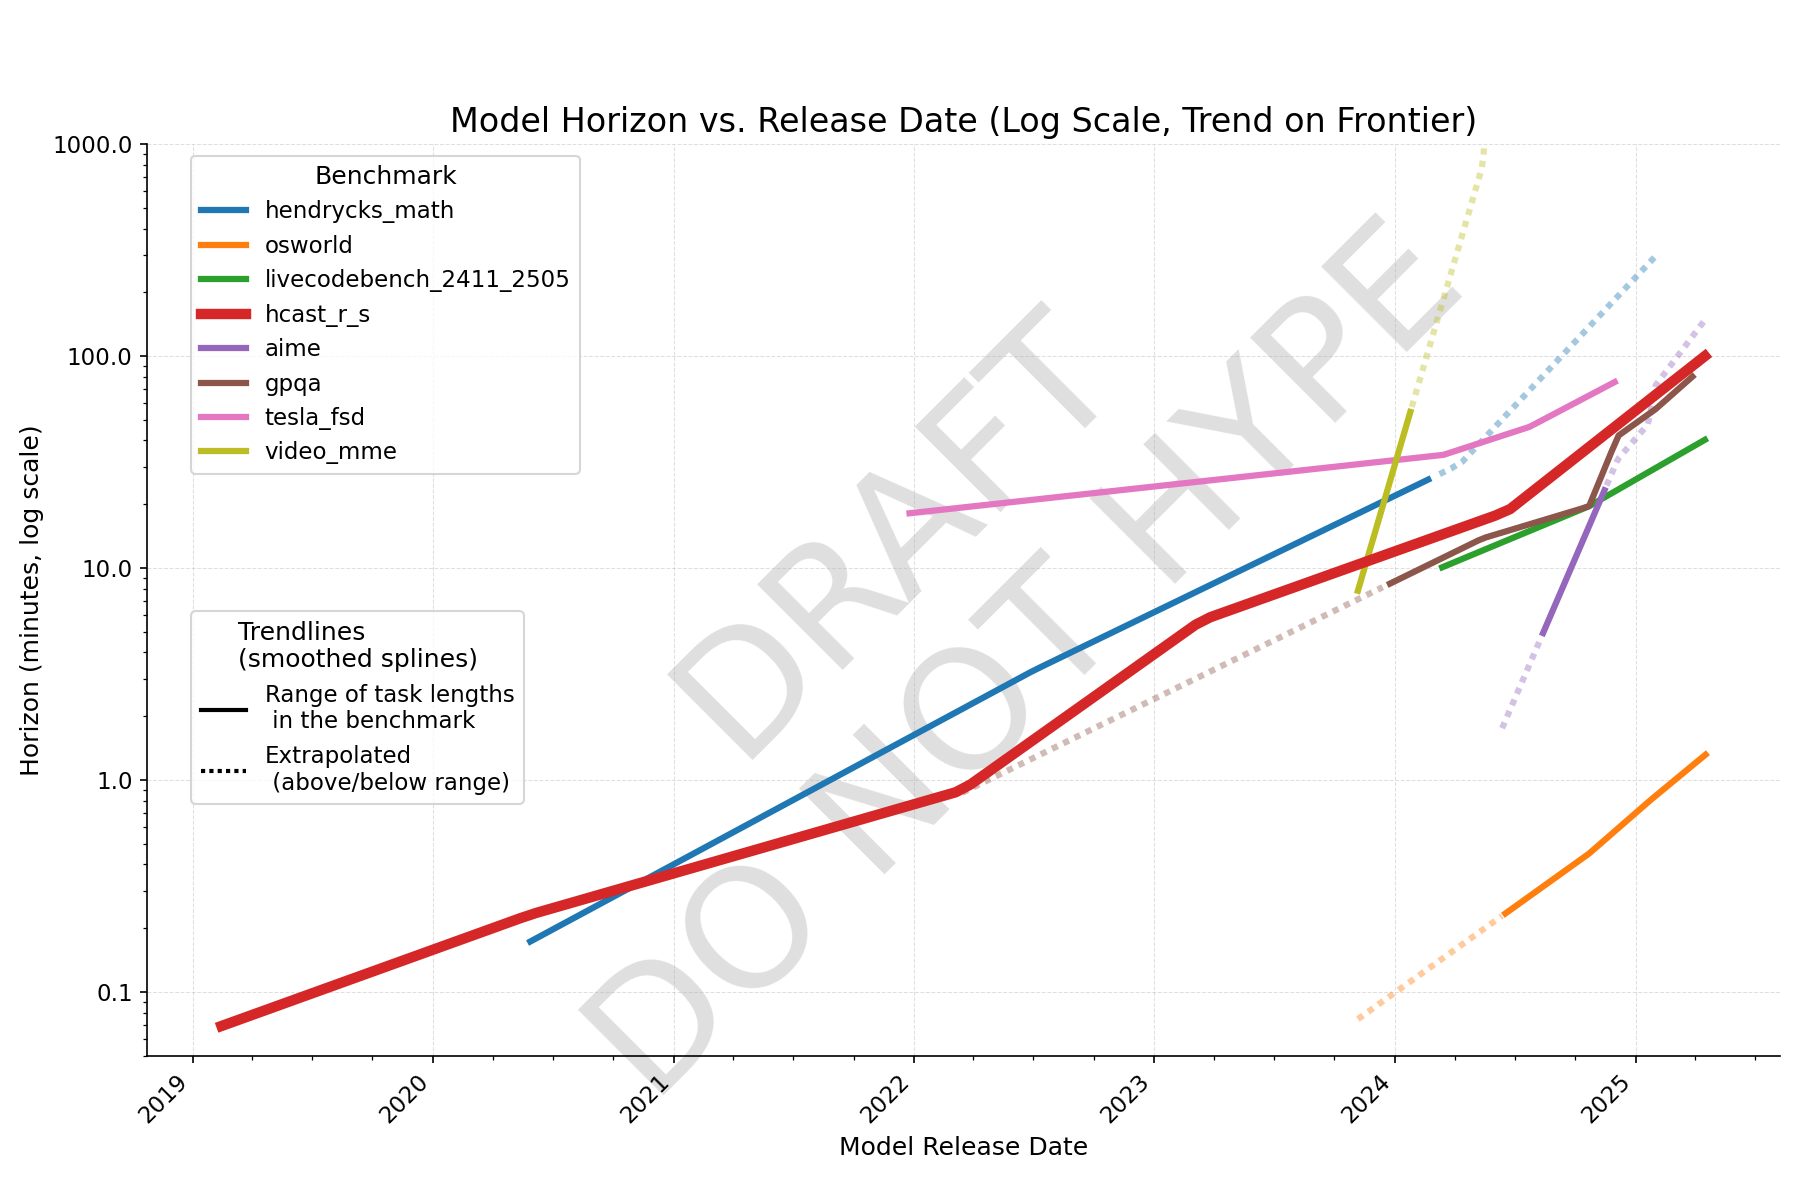
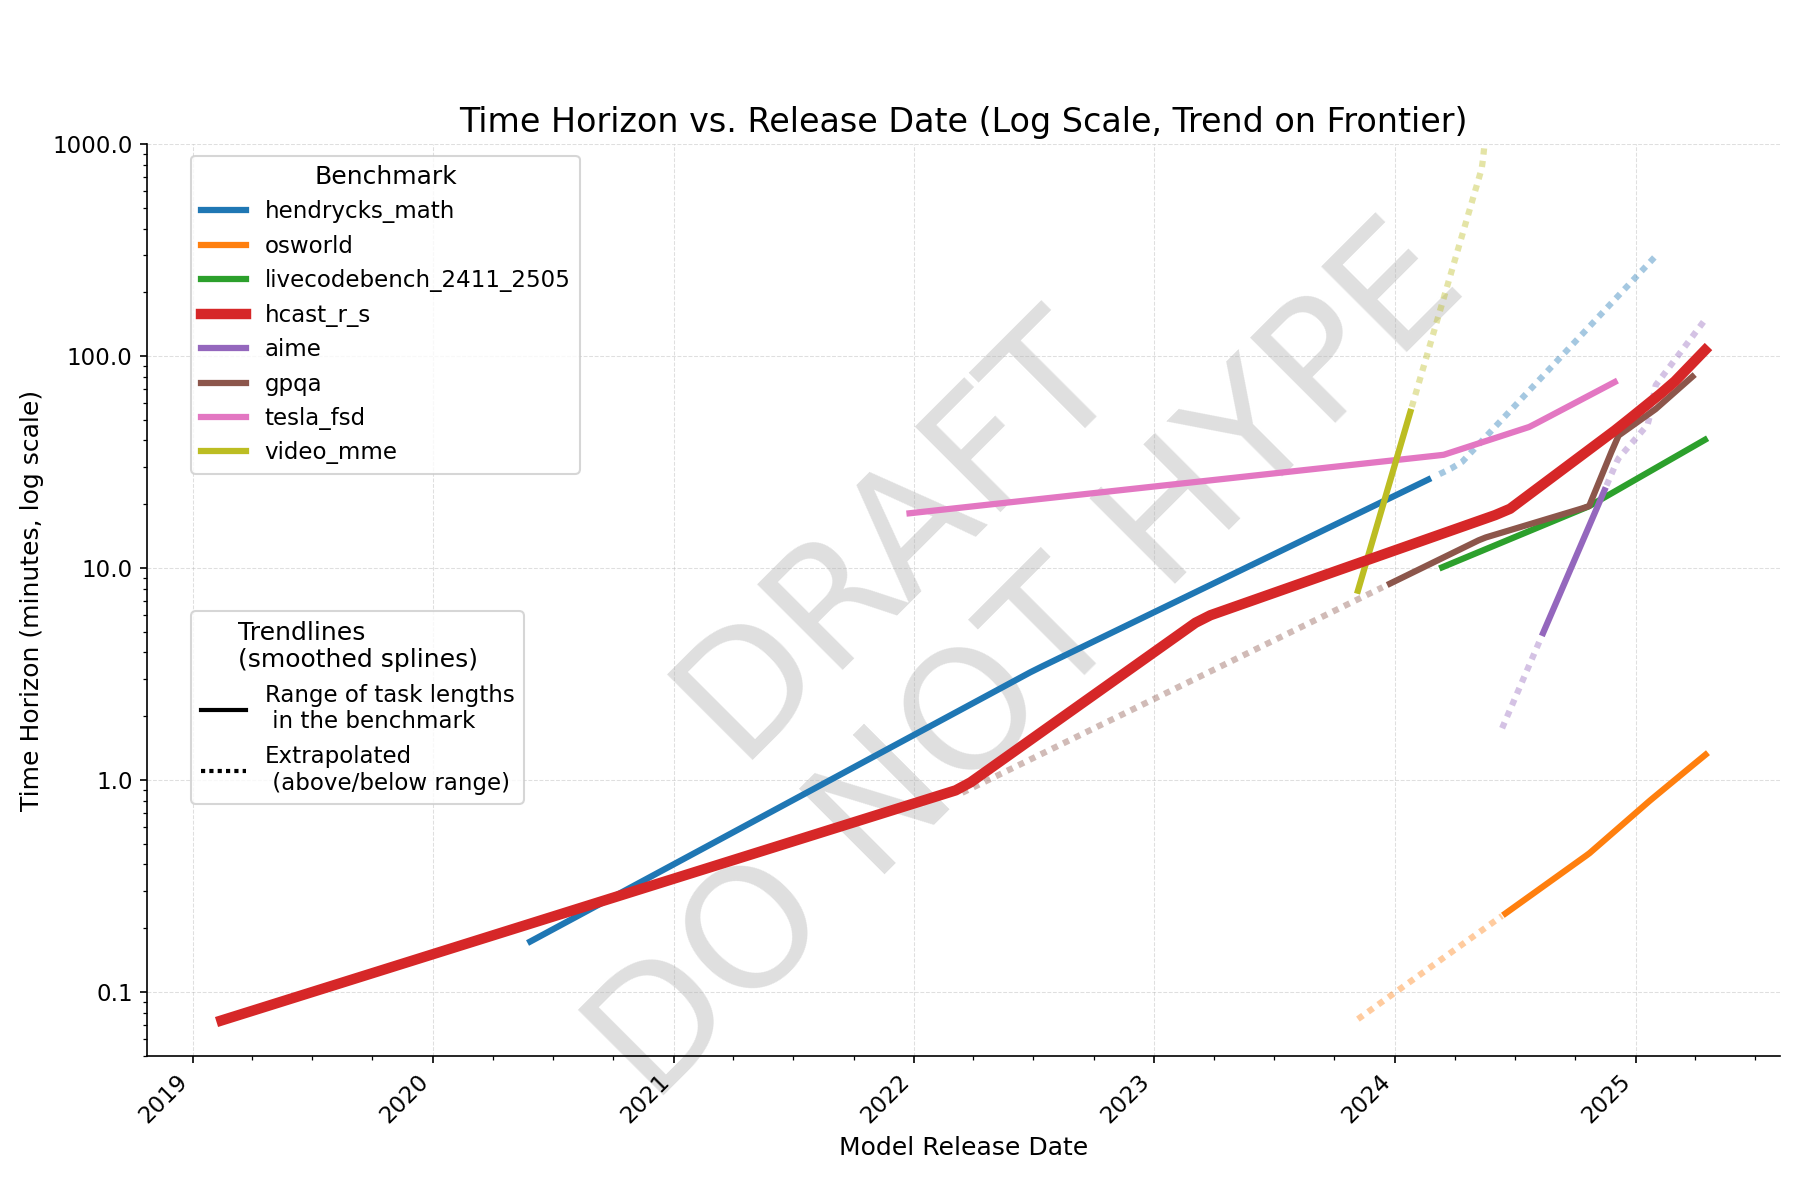
splrep

diff --git a/plots.py b/plots.py
@@ -12,7 +12,7 @@ import pathlib
 import matplotlib.patheffects as patheffects
 import seaborn as sns
 import toml
-from scipy.interpolate import UnivariateSpline
+from scipy.interpolate import make_splrep
 from enum import Enum
 from dataclasses import dataclass, field
 from functools import total_ordering
@@ -244,7 +244,7 @@ def plot_lines_over_time(df, output_file,
             doubling_rate = coeffs[0] * 365  # Convert from per day to per year
 
             # degree-1 spline to avoid negative slopes
-            spline = UnivariateSpline(X, Y_log, s=0.2, k=1)
+            spline = make_splrep(X, Y_log, s=0.2, k=1)
 
             x_line_num = np.linspace(X.min(), X.max(), 100)
             y_line_log = spline(x_line_num)
@@ -300,8 +300,8 @@ def plot_lines_over_time(df, output_file,
     ax.set_ylim(0.05, 1000)
 
     ax.set_xlabel("Model Release Date")
-    ax.set_ylabel("Horizon (minutes, log scale)")
-    ax.set_title("Model Horizon vs. Release Date (Log Scale, Trend on Frontier)")
+    ax.set_ylabel("Time Horizon (minutes, log scale)")
+    ax.set_title("Time Horizon vs. Release Date (Log Scale, Trend on Frontier)")
     ax.grid(True, which="major", ls="--", linewidth=0.5, alpha=0.4)
 
     # Format x-axis dates
